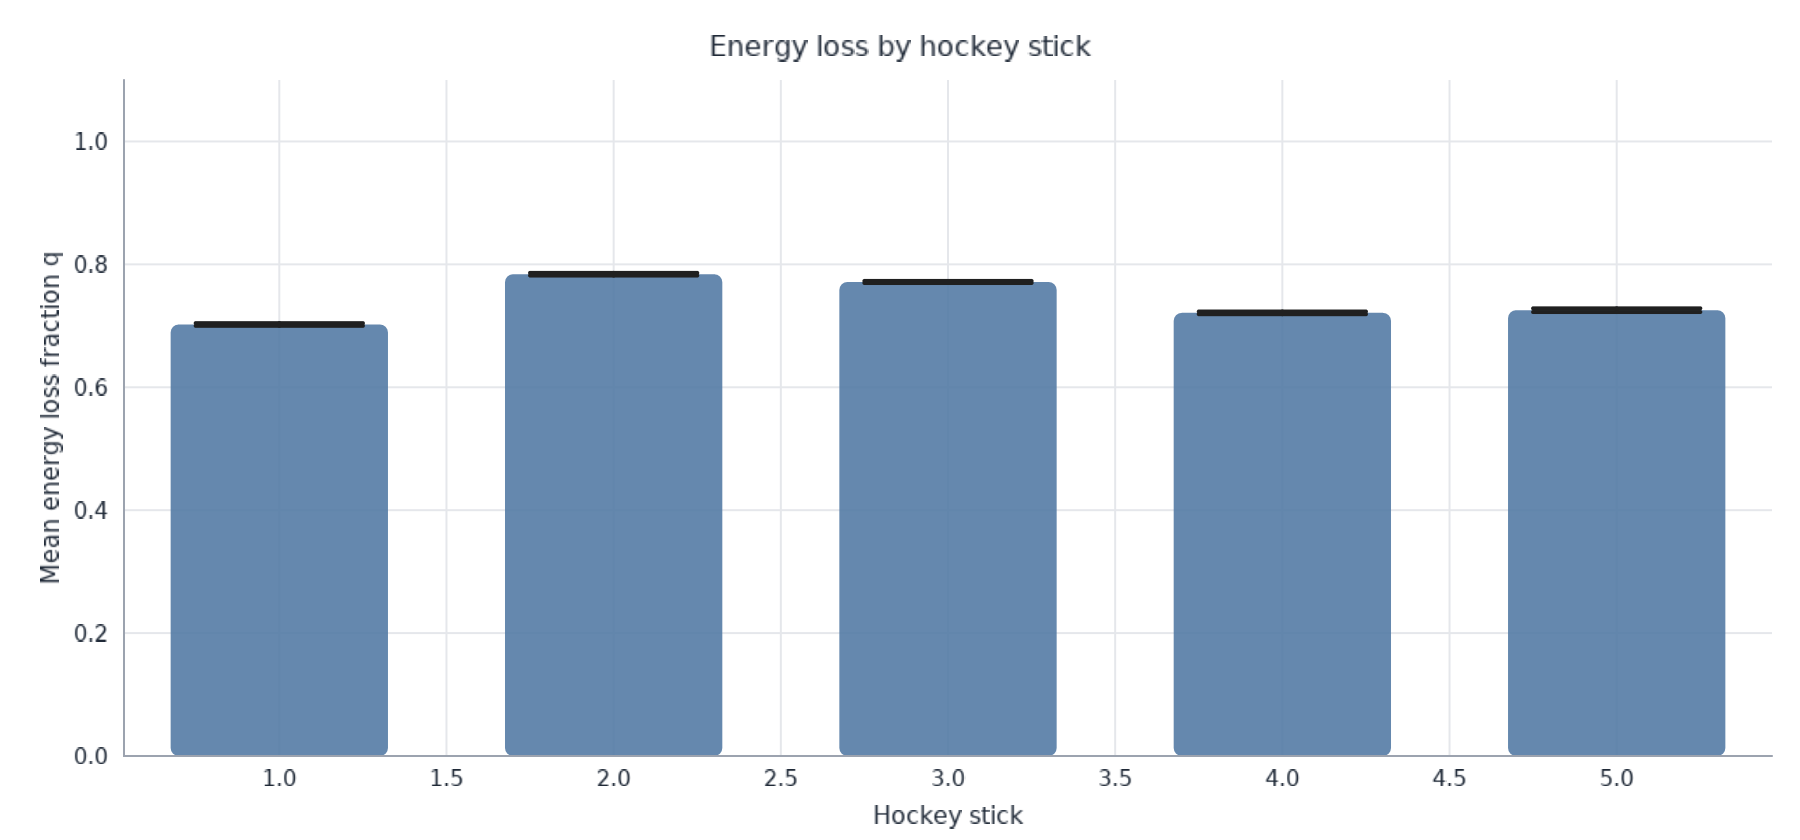
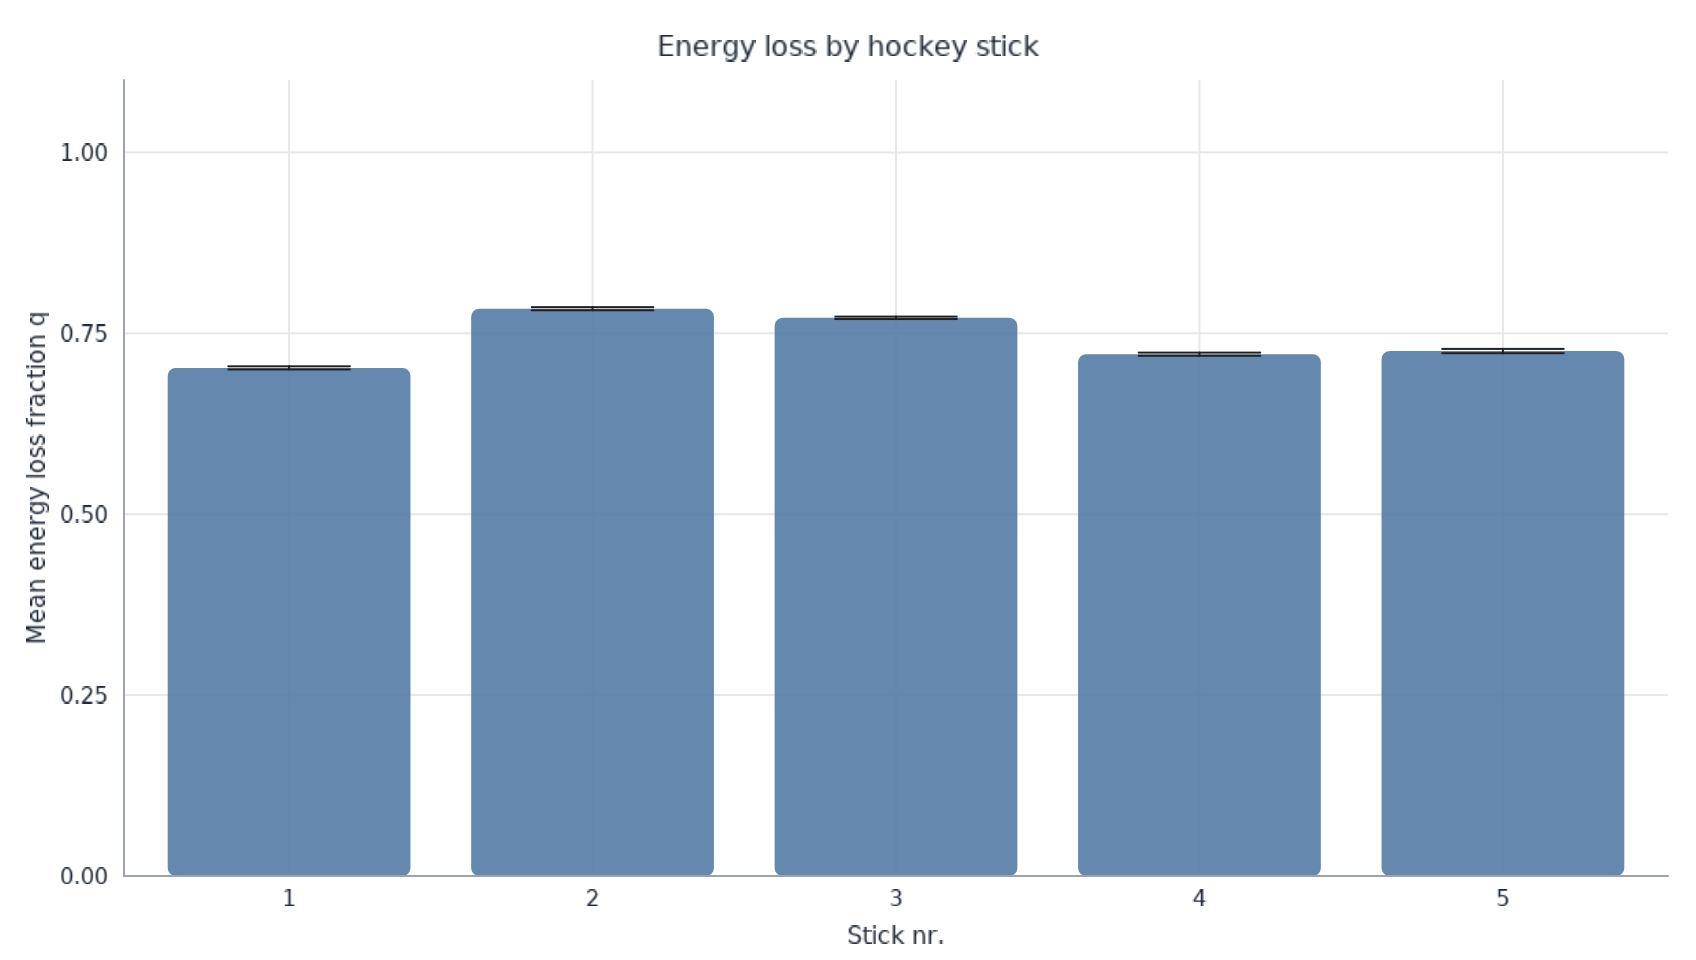
updated plot

diff --git a/src/dataverwerking_dynamics_py/__init__.py b/src/dataverwerking_dynamics_py/__init__.py
@@ -250,7 +250,7 @@ def process_q_values(project_dir):
     ## Write results to csv file.
     results.write_csv(f"{project_dir}\\output\\total_output.csv")
     ## Get indices for plotting
-    indices = [i for i in range(1,6)]
+    indices = [i+1 for i in range(5)]
 
     ## Create chart with error bars.
     chart = xy.errorbar_chart(
@@ -260,20 +260,22 @@ def process_q_values(project_dir):
             color="#547BA5",
             opacity=0.9,
             corner_radius=4,
-            width=0.65,
         ),
         xy.errorbar(
             indices,
             results["q_mean"].to_numpy(),
             yerr=results["q_error"].to_numpy(),
             color="#202020",
-            width=2,
+            width=1,
+            cap_size = 0.2,
         ),
-        xy.x_axis(label="Hockey stick"),
+        xy.x_axis(label="Stick nr.",
+            tick_count=6),
         xy.y_axis(
             label="Mean energy loss fraction q",
             bounds=(0, 1.1),
             domain = (0, 1.1),
+            tick_count=5
         ),
         xy.theme(
             background="#FFFFFF",
@@ -285,7 +287,8 @@ def process_q_values(project_dir):
         title="Energy loss by hockey stick",
     )
 
-    chart.to_png("output.png")
+    chart.to_png("output.png", width = 848, height =480)
+    chart.to_svg("output.svg")
 
 
 
